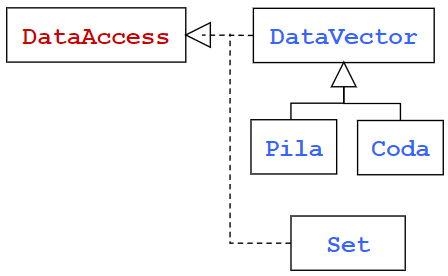
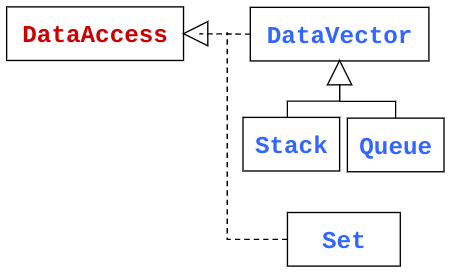
Polymorphism minor fixes

Changed region(s): [[0.0, 0.0, 1.0, 0.9927], [0.0312, 0.0876, 0.375, 0.1752], [0.7188, 0.8467, 0.8438, 0.9343]]

diff --git a/programming-2/polymorphism.html b/programming-2/polymorphism.html
@@ -579,44 +579,44 @@ o.m(...);</code></pre>
 
       <section>
         <h3 class="title">Exercise</h3>
-        <svg style="max-width: min(70vw, 140vh); max-height: min(30vw, 60vh);" viewBox="19.762 14.958 296.274 178.924" xmlns="http://www.w3.org/2000/svg" xmlns:bx="https://boxy-svg.com">
+        <svg  style="max-width: min(70vw, 140vh); max-height: min(30vw, 60vh);" viewBox="50.2 36.535 297.423 169.511" >
           <defs>
-            <style bx:fonts="Space Mono">@import url(https://fonts.googleapis.com/css2?family=Space+Mono%3Aital%2Cwght%400%2C400%3B0%2C700%3B1%2C400%3B1%2C700&amp;display=swap);</style>
+            <style data-bx-fonts="Space Mono">@import url(https://fonts.googleapis.com/css2?family=Space+Mono%3Aital%2Cwght%400%2C400%3B0%2C700%3B1%2C400%3B1%2C700&amp;display=swap);</style>
           </defs>
-          <g class="fragment" transform="matrix(0.633514, 0, 0, 0.627589, -0.927298, 0.133122)" style="">
-            <rect x="33.728" y="39.053" width="73.373" height="50.295" style="stroke: rgb(0, 0, 0); fill: rgb(255, 255, 255);"/>
-            <rect x="33.728" y="125.74" width="73.373" height="50.295" style="stroke: rgb(0, 0, 0); fill: rgb(255, 255, 255);"/>
+          <g class="fragment" transform="matrix(0.633514, 0, 0, 0.627589, 29.510984, 21.722738)" style="">
+            <rect x="33.728" y="39.053" width="73.373" height="50.295" style="stroke: rgb(0, 0, 0); fill: rgb(255, 255, 255);"></rect>
+            <rect x="33.728" y="125.74" width="73.373" height="50.295" style="stroke: rgb(0, 0, 0); fill: rgb(255, 255, 255);"></rect>
             <text style="font-family: Arial, sans-serif; font-size: 16.6px; font-weight: 700; white-space: pre;" x="64.497" y="70.414">A</text>
             <text style="font-family: Arial, sans-serif; font-size: 16.6px; font-weight: 700; white-space: pre;" x="63.235" y="157.101">B</text>
-            <line style="stroke: rgb(0, 0, 0); fill: rgb(255, 255, 255);" x1="69.231" y1="126.035" x2="69.23" y2="109.467"/>
-            <path d="M 69.23 91.124 L 78.698 110.059 L 59.763 110.059 L 69.23 91.124 Z" style="stroke: rgb(0, 0, 0); fill: rgb(255, 255, 255);" bx:shape="triangle 59.763 91.124 18.935 18.935 0.5 0 1@b4934d82"/>
-            <line style="stroke: rgb(0, 0, 0); fill: rgb(255, 255, 255);" x1="67.97" y1="211.762" x2="67.969" y2="195.194"/>
-            <path d="M 67.97 176.851 L 77.437 195.786 L 58.502 195.786 L 67.97 176.851 Z" style="stroke: rgb(0, 0, 0); fill: rgb(255, 255, 255);" bx:shape="triangle 58.502 176.851 18.935 18.935 0.5 0 1@68a85f75"/>
-            <rect x="32.658" y="211.738" width="73.373" height="50.295" style="stroke: rgb(0, 0, 0); fill: rgb(255, 255, 255);"/>
+            <line style="stroke: rgb(0, 0, 0); fill: rgb(255, 255, 255);" x1="69.231" y1="126.035" x2="69.23" y2="109.467"></line>
+            <path d="M 69.23 91.124 L 78.698 110.059 L 59.763 110.059 L 69.23 91.124 Z" style="stroke: rgb(0, 0, 0); fill: rgb(255, 255, 255);" data-bx-shape="triangle 59.763 91.124 18.935 18.935 0.5 0 1@b4934d82"></path>
+            <line style="stroke: rgb(0, 0, 0); fill: rgb(255, 255, 255);" x1="67.97" y1="211.762" x2="67.969" y2="195.194"></line>
+            <path d="M 67.97 176.851 L 77.437 195.786 L 58.502 195.786 L 67.97 176.851 Z" style="stroke: rgb(0, 0, 0); fill: rgb(255, 255, 255);" data-bx-shape="triangle 58.502 176.851 18.935 18.935 0.5 0 1@68a85f75"></path>
+            <rect x="32.658" y="211.738" width="73.373" height="50.295" style="stroke: rgb(0, 0, 0); fill: rgb(255, 255, 255);"></rect>
             <text style="font-family: Arial, sans-serif; font-size: 16.6px; font-weight: 700; white-space: pre;" x="61.516" y="243.338">C</text>
           </g>
-          <g class="fragment">
+          <g class="fragment" transform="matrix(1, 0, 0, 1, 30.438284, 21.589617)">
             <text style="fill: rgb(141, 0, 0); font-family: 'Space Mono'; font-size: 16.6px; font-weight: 700; letter-spacing: 1px; white-space: pre;" x="108.014" y="47.436" transform="matrix(0.633514, 0, 0, 0.627589, 7.490931, 5.270481)">m()</text>
             <text style="fill: rgb(141, 0, 0); font-family: 'Space Mono'; font-size: 16.6px; font-weight: 700; letter-spacing: 1px; white-space: pre;" x="108.014" y="47.436" transform="matrix(0.633514, 0, 0, 0.627589, 6.378971, 57.143333)">m()</text>
           </g>
-          <g class="fragment" transform="matrix(0.6983, 0, 0, 0.627589, -257.55426, -17.003944)" style="">
-            <text style="fill: rgb(141, 0, 0); font-family: Arial, sans-serif; font-size: 11px; white-space: pre;" transform="matrix(-0.000001, -1, 1, -0.000002, 506.006744, 486.92392)" x="342.604" y="60.947">overriding</text>
+          <g class="fragment" transform="matrix(0.6983, 0, 0, 0.627589, -227.115982, 4.585672)" style="">
+            <text style="fill: rgb(141, 0, 0); font-family: Arial, sans-serif; font-size: 11px; white-space: pre;" transform="matrix(-0.000001, -1, 1, -0.000002, 480.657074, 485.458679)" x="342.604" y="60.947">overriding</text>
             <text style="fill: rgb(141, 0, 0); font-family: Arial, sans-serif; font-size: 22px; white-space: pre;" x="298.225" y="180.473" transform="matrix(1.290153, 0, 0, 4.439843, 133.686432, -657.882629)">]</text>
           </g>
-          <g class="fragment" transform="matrix(0.6983, 0, 0, 0.627589, -10.37386, 38.473675)" style="">
+          <g class="fragment" transform="matrix(0.6983, 0, 0, 0.627589, 20.064423, 60.06329)" style="">
             <text style="fill: rgba(106, 106, 106, 0.75); font-family: 'Space Mono'; font-size: 16.6px; font-weight: 700; letter-spacing: 1px; white-space: pre;" x="119.864" y="161.242" transform="matrix(1, 0, 0, 1, 0.000001, 0.000005)">m()</text>
-            <polyline style="fill: rgba(255, 255, 255, 0); stroke-width: 2px; stroke: rgba(87, 87, 87, 0.66); stroke-dasharray: 6;" points="201.225 71.326 201.277 -12.734 459.027 -14.123 458.611 155.159 219.316 156.212"/>
-            <path d="M 166.526 129.367 L 175.402 147.71 L 157.65 147.71 L 166.526 129.367 Z" style="stroke-width: 0px; stroke: rgba(0, 0, 0, 0.86); fill: rgba(71, 71, 71, 0.41);" transform="matrix(0, -1, 1, 0, 73.444572, 322.147217)" bx:shape="triangle 157.65 129.367 17.752 18.343 0.5 0 1@4a9f39e1"/>
+            <polyline style="fill: rgba(255, 255, 255, 0); stroke-width: 2px; stroke: rgba(87, 87, 87, 0.66); stroke-dasharray: 6;" points="201.225 71.326 201.276 71.151 458.04 69.396 458.611 155.159 219.316 156.212"></polyline>
+            <path d="M 166.526 129.367 L 175.402 147.71 L 157.65 147.71 L 166.526 129.367 Z" style="stroke-width: 0px; stroke: rgba(0, 0, 0, 0.86); fill: rgba(71, 71, 71, 0.41);" transform="matrix(0, -1, 1, 0, 73.444572, 322.147217)" data-bx-shape="triangle 157.65 129.367 17.752 18.343 0.5 0 1@4a9f39e1"></path>
             <text style="fill: rgb(141, 0, 0); font-family: Arial, sans-serif; font-size: 11px; white-space: pre;" transform="matrix(-0.000001, -1, 1, -0.000001, 181.613159, 494.500916)" x="342.604" y="60.947">inheritance</text>
           </g>
-          <text class="fragment" style="font-family: 'Space Mono'; font-size: 16.6px; font-weight: 700; letter-spacing: 1px; white-space: pre;" transform="matrix(0.633514, 0, 0, 0.627589, 114.429626, -3.218456)"><tspan x="108.014" y="47.436">A pa = new C();</tspan><tspan x="108.01399993896484" dy="1.3em"></tspan><tspan>pa.m()  // ??</tspan></text>
-          <g class="fragment">
-            <rect x="158.607" y="60" width="157.429" height="29.046" style="stroke: rgb(0, 0, 0); fill: rgb(232, 178, 14);"/>
+          <text class="fragment" style="font-family: 'Space Mono'; font-size: 16.6px; font-weight: 700; letter-spacing: 1px; white-space: pre;" transform="matrix(0.633514, 0, 0, 0.627589, 144.867905, 18.371161)"><tspan x="108.014" y="47.436">A pa = new C();</tspan><tspan x="108.01399993896484" dy="1.3em"></tspan><tspan>pa.m()  // ??</tspan></text>
+          <g class="fragment" transform="matrix(1, 0, 0, 1, 31.587744, 9.175456)">
+            <rect x="158.607" y="60" width="157.429" height="29.046" style="stroke: rgb(0, 0, 0); fill: rgb(232, 178, 14);"></rect>
             <text style="font-family: 'Space Mono'; font-size: 16.6px; font-weight: 700; letter-spacing: 1px; white-space: pre;" transform="matrix(0.633514, 0, 0, 0.627589, 99.032616, 47.69297)" x="108.01399993896484" y="47.43600082397461">m() in B == m() in C</text>
           </g>
-          <text class="fragment" style="font-family: 'Space Mono'; font-size: 16.6px; font-weight: 700; letter-spacing: 1px; white-space: pre;" transform="matrix(0.633514, 0, 0, 0.627589, 115.298302, 103.461052)" x="108.01399993896484" y="47.43600082397461">C pc = new C();<tspan x="108.01399993896484" dy="1.3em"></tspan>pc.m()  // ??</text>
-          <g class="fragment" transform="matrix(1, 0, 0, 1, -3.707944, 104.836121)">
-            <rect x="158.607" y="60" width="157.429" height="29.046" style="stroke: rgb(0, 0, 0); fill: rgb(232, 178, 14);"/>
+          <text class="fragment" style="font-family: 'Space Mono'; font-size: 16.6px; font-weight: 700; letter-spacing: 1px; white-space: pre;" transform="matrix(0.633514, 0, 0, 0.627589, 145.736588, 125.050667)" x="108.01399993896484" y="47.43600082397461">C pc = new C();<tspan x="108.01399993896484" dy="1.3em"></tspan>pc.m()  // ??</text>
+          <g class="fragment" transform="matrix(1, 0, 0, 1, 28.10969, 117.000168)">
+            <rect x="158.607" y="60" width="157.429" height="29.046" style="stroke: rgb(0, 0, 0); fill: rgb(232, 178, 14);"></rect>
             <text style="font-family: 'Space Mono'; font-size: 16.6px; font-weight: 700; letter-spacing: 1px; white-space: pre;" transform="matrix(0.633514, 0, 0, 0.627589, 97.752602, 48.972984)" x="108.01399993896484" y="47.43600082397461">m() in C == m() in B</text>
           </g>
         </svg>
@@ -998,7 +998,7 @@ class Student extends Person {
             <ul>
               <li>What if we replace <span class="code">final</span> with <span class="code">private</span>?</li>
               <li class="mt2 fragment"><span class="code">private</span> methods cannot be overridden (like <span class="code">finals</span>), but are completely "invisible" to subclasses</li>
-              <li class="fragment"><span class="code">f1()</span> in <span class="code">Derived</span> is a new method (no overriding)</li>
+              <li class="fragment"><span class="code">whoAmI()</span> in <span class="code">Student</span> is a new method (no overriding)</li>
             </ul>
           </div>
           <div class="col med-code">
